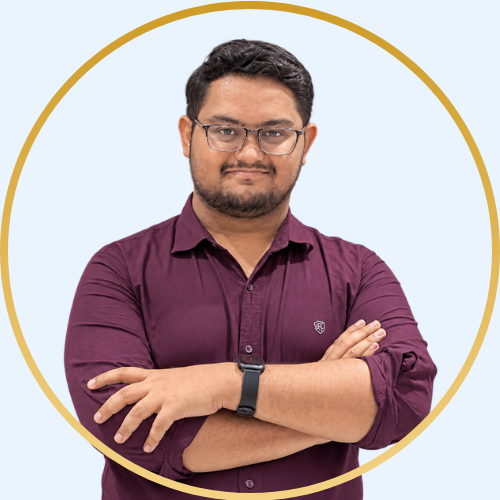
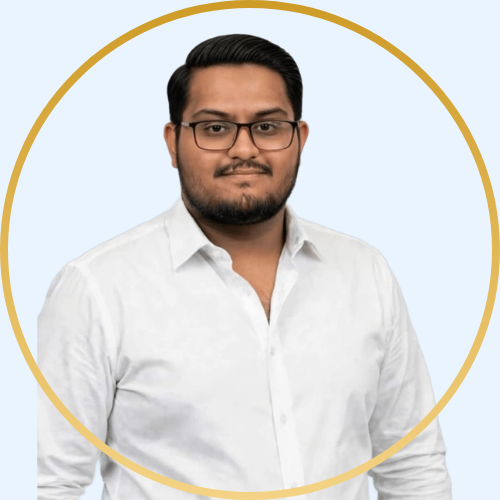
updated code

diff --git a/lib/About.dart b/lib/About.dart
@@ -2442,7 +2442,7 @@ class _TeamSectionState extends State<TeamSection>
 
   final List<Map<String, String>> _teamMembers = [
     {"name": "Shaily Shah", "designation": "Founder", "photo": "assets/foldername/ph1.jpg"},
-    {"name": "Harsh Shah", "designation": "Co - Founder", "photo": "assets/foldername/ph1.jpg"},
+    {"name": "Harsh Shah", "designation": "Co - Founder", "photo": "assets/team_photos/harsh_shah.png"},
     {"name": "Umesh", "designation": "Manager", "photo": "assets/foldername/ph1.jpg"},
     {"name": "Vaibhav", "designation": "Sr. Video Editor", "photo": "assets/team_photos/vaibhav.png"},
     {"name": "Ankita", "designation": "Video Editor\n& Graphics Designer", "photo": "assets/foldername/ph3.jpg"},

diff --git a/lib/home_page.dart b/lib/home_page.dart
@@ -158,7 +158,8 @@ class _HomePageState extends State<HomePage> with TickerProviderStateMixin {
   ];
 
   final List<Map<String, String>> ourWorkVideos = [
-    {"title": "Brand Campaign 1", "path": "assets/videos/video_2.mp4"},
+    {"title": "Brand Campaign 1", "path": "assets/videos/video.mp4"},
+    {"title": "Brand Campaign 2", "path": "assets/videos/video_2.mp4"},
     {"title": "Social Media Showcase", "path": "assets/videos/video_3.mp4"},
     {"title": "Client Reel 1", "path": "assets/videos/video_4.mp4"},
     {"title": "Promotional Short 1", "path": "assets/videos/video_5.mp4"},
